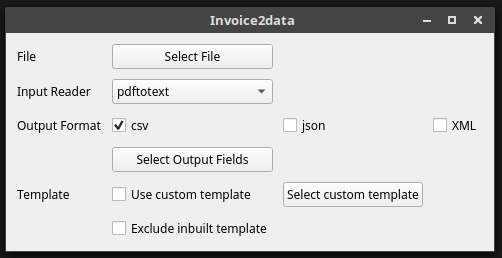
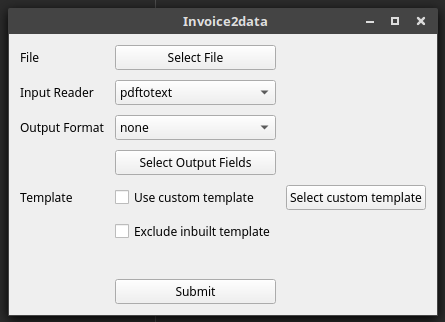
First try at implementation

Changed region(s): [[0.0, 0.0, 0.9933, 0.9922]]

diff --git a/guiMain.py b/guiMain.py
@@ -1,8 +1,9 @@
 from PyQt5.QtWidgets import (QWidget, QApplication, QLabel,
                              QPushButton, QGridLayout, QComboBox,
-                             QCheckBox, QFileDialog)
+                             QFileDialog, QCheckBox, QMessageBox)
 import sys
-from invoice2data import main
+from invoice2data.main import *
+
 
 class Interface(QWidget):
 
@@ -13,7 +14,11 @@ class Interface(QWidget):
 
     def initUI(self):
 
-        self.args = ""
+        # self.args_list = []
+        # self.args = ""
+        self.file_names = []
+        self.input_reader_list = []
+        self.output_format_list = []
 
         file_label = QLabel('File')
         open_file_button = QPushButton('Select File', self)
@@ -24,19 +29,28 @@ class Interface(QWidget):
         input_reader_label = QLabel('Input Reader')
         # self.input_reader_selected = QLabel("pdftotext", self)
 
-        combo = QComboBox(self)
-        combo.addItem("pdftotext")
-        combo.addItem("pdfminer")
-        combo.addItem("tesseract")
-        # combo.activated[str].connect(self.onActivated)
+        input_combo = QComboBox(self)
+        input_combo.addItem("pdftotext")
+        input_combo.addItem("pdfminer")
+        input_combo.addItem("tesseract")
+        input_combo.activated[str].connect(self.onActivated)
 
         output_format_label = QLabel('Output Format')
 
-        csv_checkbox = QCheckBox('csv', self)
-        csv_checkbox.toggle()
-        json_checkbox = QCheckBox('json', self)
-        xml_checkbox = QCheckBox('XML', self)
-        # cb.stateChanged.connect(self.changeTitle)
+        output_combo = QComboBox(self)
+        output_combo.addItem("none")
+        output_combo.addItem("csv")
+        output_combo.addItem("json")
+        output_combo.addItem("xml")
+        output_combo.activated[str].connect(self.outputFormat)
+
+        # csv_radio = QRadioButton('csv', self)
+        # json_radio = QRadioButton('json', self)
+        # xml_radio = QRadioButton('XML', self)
+
+        # csv_checkbox.stateChanged.connect(self.csvOutputFormat)
+        # json_checkbox.stateChanged.connect(self.jsonOutputFormat)
+        # xml_checkbox.stateChanged.connect(self.xmlOutputFormat)
 
         output_field_button = QPushButton('Select Output Fields')
 
@@ -51,6 +65,8 @@ class Interface(QWidget):
         empty_row_label = QLabel('')
 
         submit_button = QPushButton('Submit')
+        submit_button.clicked.connect(self.sendArg)
+        self.submit_clicked_confirmation = QLabel('')
 
         grid = QGridLayout()
         grid.setSpacing(10)
@@ -61,12 +77,10 @@ class Interface(QWidget):
 
         grid.addWidget(input_reader_label, 2, 0)
         # grid.addWidget(self.input_reader_selected, 2, 2)
-        grid.addWidget(combo, 2, 1)
+        grid.addWidget(input_combo, 2, 1)
 
         grid.addWidget(output_format_label, 3, 0)
-        grid.addWidget(csv_checkbox, 3, 1)
-        grid.addWidget(json_checkbox, 3, 2)
-        grid.addWidget(xml_checkbox, 3, 3)
+        grid.addWidget(output_combo, 3, 1)
 
         grid.addWidget(output_field_button, 4, 1)
 
@@ -89,16 +103,19 @@ class Interface(QWidget):
         self.setWindowTitle('Invoice2data')
         self.show()
 
-    # def onActivated(self, text):
-    #     self.input_reader_selected.setText(text)
-    #     self.input_reader_selected.adjustSize()
+    def onActivated(self, text):
+        self.input_reader_list = ['--input-reader', text]
+
     def showFileDialog(self):
 
         fname = QFileDialog.getOpenFileNames(self, 'Open file', '/home', "pdf (*.pdf);; All Files (*)")
         if fname[0]:
             # print(str(fname[0][0]))
             self.file_selected.setText(str(fname[0][0]))
-            # self.args = self.parser.parse_args(['--output-name', test_file, '--output-format', 'csv'] + self._get_test_file_path())
+            self.file_names = fname[0]
+
+    def outputFormat(self, text):
+        self.output_format_list = ['--output-format', text]
 
     def showTempalateDialog(self):
 
@@ -106,7 +123,17 @@ class Interface(QWidget):
         if custom_template_name[0]:
             # print(str(fname[0][0]))
             self.template_selected.setText(str(custom_template_name[0]))
-            # self.args = self.parser.parse_args(['--output-name', test_file, '--output-format', 'csv'] + self._get_test_file_path())
+
+    def sendArg(self):
+        if self.file_names:
+            parser = create_parser()
+            print(parser.parse_args(self.file_names + self.input_reader_list + self.output_format_list))
+            args = parser.parse_args(self.file_names + self.input_reader_list + self.output_format_list)
+            main(args)
+            QMessageBox.about(self, "Title", "Operation Executed")
+        else:
+            QMessageBox.about(self, "Title", "Error! Please specify the file")
+
 
 if __name__ == '__main__':
 

diff --git a/README.md b/README.md
@@ -1,11 +1,30 @@
 # guiInvoice2data
 
-This repository tries to implement [invoice2data](https://github.com/m3nu/invoice2data)
+This repository tries to implement [invoice2data](https://github.com/m3nu/invoice2data).
 
-Library Used: PyQt-5
+**Note: It's an alpha version!**
+
+## Dependencies
+Make sure that PyQt5 and invoice2data module are installed
+
+for PyQt-5:
+```
+pip3 install pyqt5
+```
+for invoice2data
+```
+pip3 install invoice2data
+```
 
 ## Current Status
-
- * Made prototype for GUI implementation of [invoice2data](https://github.com/m3nu/invoice2data)
+#### Things Working
+ * Selecting File
+ * Selecting input reader
+ * Selecting output file type
+ 
+#### Things coming soon
+ * Selecting Custom templates
+ * Selecting output Fields
+ * Template creation
  
  ![mockup for gui](gui_mockup.png)
